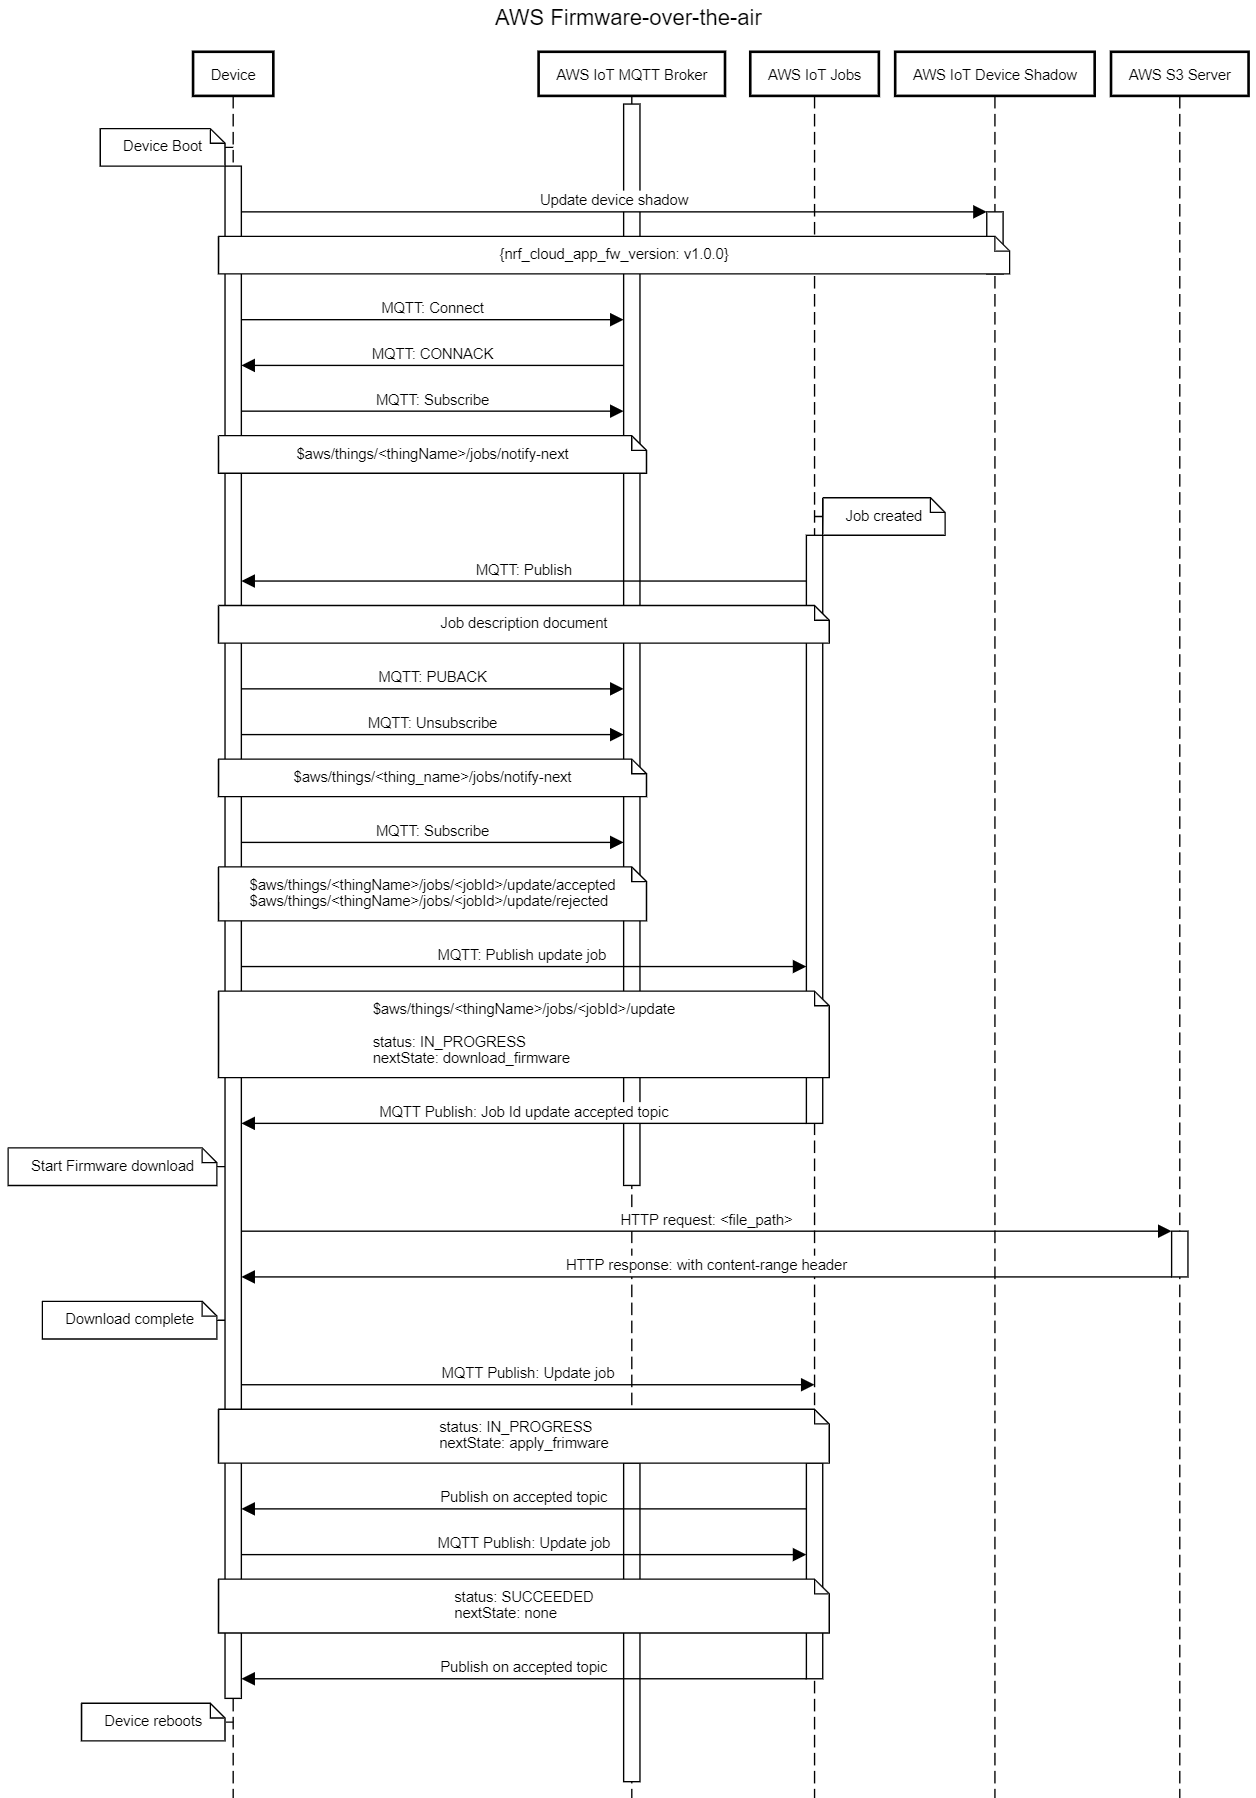
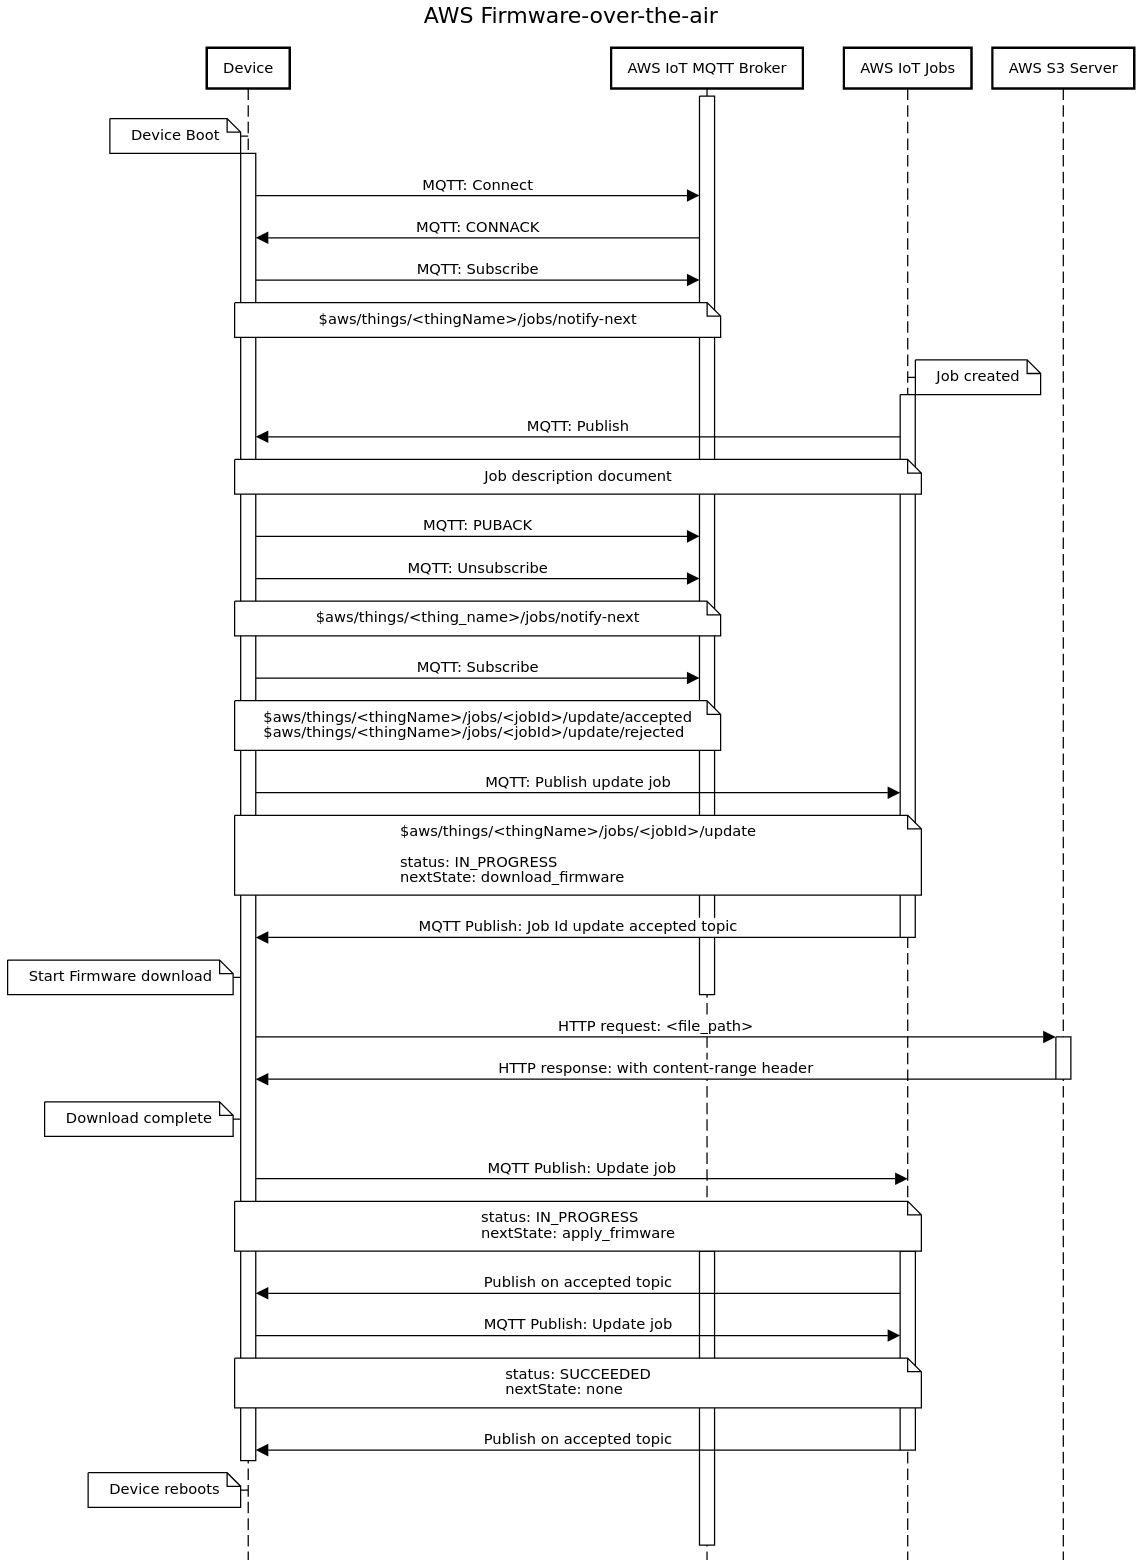
samples: nrf9160: aws_fota: Remove nRF Cloud support and provisioning
Since nRF Cloud no longer support `fota_v1` nRF Cloud support is removed
from this sample.

This also removes the update to the device shadow. It also removes
the provisioning functionality since it's not the recommended way of
provisioning certificates to the modem.

Ref. NCSDK-8824

diff --git a/samples/nrf9160/aws_fota/src/main.c b/samples/nrf9160/aws_fota/src/main.c
@@ -22,26 +22,15 @@
 BUILD_ASSERT(!IS_ENABLED(CONFIG_LTE_AUTO_INIT_AND_CONNECT),
 			"This sample does not support auto init and connect");
 
-#if defined(CONFIG_USE_NRF_CLOUD)
-#define NRF_CLOUD_SECURITY_TAG 16842753
-#endif
-
 #define MQTT_KEEPALIVE (CONFIG_MQTT_KEEPALIVE * MSEC_PER_SEC)
 
-#if defined(CONFIG_PROVISION_CERTIFICATES)
-#include "certificates.h"
-#if defined(CONFIG_MODEM_KEY_MGMT)
-#include <modem/modem_key_mgmt.h>
-#endif
-#endif
-
-#if !defined(CONFIG_CLOUD_CLIENT_ID)
+#if !defined(CONFIG_USE_CUSTOM_CLIENT_ID)
 /* Define the length of the IMEI AT COMMAND response buffer */
 #define CGSN_RESP_LEN 19
 #define IMEI_LEN 15
-#define CLIENT_ID_LEN (sizeof(CONFIG_NRF_CLOUD_CLIENT_ID_PREFIX) + IMEI_LEN)
+#define CLIENT_ID_LEN (sizeof(CONFIG_CLIENT_ID_PREFIX) + IMEI_LEN)
 #else
-#define CLIENT_ID_LEN sizeof(CONFIG_CLOUD_CLIENT_ID)
+#define CLIENT_ID_LEN sizeof(CONFIG_CLIENT_ID)
 #endif
 static uint8_t client_id_buf[CLIENT_ID_LEN];
 static uint8_t current_job_id[AWS_JOBS_JOB_ID_MAX_LEN];
@@ -71,57 +60,6 @@ void nrf_modem_recoverable_error_handler(uint32_t err)
 }
 
 #endif /* defined(CONFIG_NRF_MODEM_LIB) */
-
-#if !defined(CONFIG_USE_NRF_CLOUD)
-/* Topic for updating shadow topic with version number */
-#define AWS "$aws/things/"
-#define UPDATE_DELTA_TOPIC AWS "%s/shadow/update"
-#define SHADOW_STATE_UPDATE \
-"{\"state\":{\"reported\":{\"nrfcloud__dfu_v1__app_v\":\"%s\"}}}"
-
-static int update_device_shadow_version(struct mqtt_client *const client)
-{
-	struct mqtt_publish_param param;
-	char update_delta_topic[strlen(AWS) + strlen("/shadow/update") +
-				sizeof(client_id_buf)];
-	uint8_t shadow_update_payload[CONFIG_DEVICE_SHADOW_PAYLOAD_SIZE];
-
-	int ret = snprintf(update_delta_topic,
-			   sizeof(update_delta_topic),
-			   UPDATE_DELTA_TOPIC,
-			   client->client_id.utf8);
-	uint32_t update_delta_topic_len = ret;
-
-	if (ret >= sizeof(update_delta_topic)) {
-		return -ENOMEM;
-	} else if (ret < 0) {
-		return ret;
-	}
-
-	ret = snprintf(shadow_update_payload,
-		       sizeof(shadow_update_payload),
-		       SHADOW_STATE_UPDATE,
-		       CONFIG_APP_VERSION);
-	uint32_t shadow_update_payload_len = ret;
-
-	if (ret >= sizeof(shadow_update_payload)) {
-		return -ENOMEM;
-	} else if (ret < 0) {
-		return ret;
-	}
-
-	param.message.topic.qos = MQTT_QOS_1_AT_LEAST_ONCE;
-	param.message.topic.topic.utf8 = update_delta_topic;
-	param.message.topic.topic.size = update_delta_topic_len;
-	param.message.payload.data = shadow_update_payload;
-	param.message.payload.len = shadow_update_payload_len;
-	param.message_id = sys_rand32_get();
-	param.dup_flag = 0;
-	param.retain_flag = 0;
-
-	return mqtt_publish(client, &param);
-}
-#endif /* !defined(CONFIG_USE_NRF_CLOUD) */
 
 /**@brief Function to print strings without null-termination. */
 static void data_print(uint8_t *prefix, uint8_t *data, size_t len)
@@ -180,12 +118,6 @@ void mqtt_evt_handler(struct mqtt_client * const c,
 		}
 
 		printk("[%s:%d] MQTT client connected!\n", __func__, __LINE__);
-#if !defined(CONFIG_USE_NRF_CLOUD)
-		err = update_device_shadow_version(c);
-		if (err) {
-			printk("Unable to update device shadow err: %d\n", err);
-		}
-#endif
 		break;
 
 	case MQTT_EVT_DISCONNECT:
@@ -324,56 +256,10 @@ static void broker_init(const char *hostname)
 	/* Free the address. */
 	freeaddrinfo(result);
 }
-#if defined(CONFIG_PROVISION_CERTIFICATES)
-#warning Not for prodcution use. This should only be used once to provisioning the certificates please deselect the provision certificates configuration and compile again.
-#define MAX_OF_2 MAX(sizeof(CLOUD_CA_CERTIFICATE),\
-		     sizeof(CLOUD_CLIENT_PRIVATE_KEY))
-#define MAX_LEN MAX(MAX_OF_2, sizeof(CLOUD_CLIENT_PUBLIC_CERTIFICATE))
-static uint8_t certificates[][MAX_LEN] = {{CLOUD_CA_CERTIFICATE},
-				       {CLOUD_CLIENT_PRIVATE_KEY},
-				       {CLOUD_CLIENT_PUBLIC_CERTIFICATE} };
-static const size_t cert_len[] = {
-	sizeof(CLOUD_CA_CERTIFICATE) - 1, sizeof(CLOUD_CLIENT_PRIVATE_KEY) - 1,
-	sizeof(CLOUD_CLIENT_PUBLIC_CERTIFICATE) - 1
-};
-static int provision_certificates(void)
-{
-	int err;
-
-	printk("************************* WARNING *************************\n");
-	printk("%s called do not use this in production!\n", __func__);
-	printk("This will store the certificates in readable flash and leave\n");
-	printk("them exposed on modem_traces. Only use this once for\n");
-	printk("provisioning certificates for development to reduce flash tear."
-		"\n");
-	printk("************************* WARNING *************************\n");
-	nrf_sec_tag_t sec_tag = CONFIG_CLOUD_CERT_SEC_TAG;
-	enum modem_key_mgmt_cred_type cred[] = {
-		MODEM_KEY_MGMT_CRED_TYPE_CA_CHAIN,
-		MODEM_KEY_MGMT_CRED_TYPE_PRIVATE_CERT,
-		MODEM_KEY_MGMT_CRED_TYPE_PUBLIC_CERT,
-	};
-
-	/* Delete certificates */
-	for (enum modem_key_mgmt_cred_type type = 0; type < 3; type++) {
-		err = modem_key_mgmt_delete(sec_tag, type);
-		printk("modem_key_mgmt_delete(%u, %d) => result=%d\n",
-				sec_tag, type, err);
-	}
-
-	/* Write certificates */
-	for (enum modem_key_mgmt_cred_type type = 0; type < 3; type++) {
-		err = modem_key_mgmt_write(sec_tag, cred[type],
-				certificates[type], cert_len[type]);
-		printk("modem_key_mgmt_write => result=%d\n", err);
-	}
-	return 0;
-}
-#endif
 
 static int client_id_get(char *id_buf, size_t len)
 {
-#if !defined(CONFIG_CLOUD_CLIENT_ID)
+#if !defined(CONFIG_CLIENT_ID)
 	enum at_cmd_state at_state;
 	char imei_buf[CGSN_RESP_LEN];
 	int err = at_cmd_write("AT+CGSN", imei_buf, sizeof(imei_buf),
@@ -384,11 +270,11 @@ static int client_id_get(char *id_buf, size_t len)
 			err, at_state);
 		return err;
 	}
-	snprintf(id_buf, len, "%s%.*s", CONFIG_NRF_CLOUD_CLIENT_ID_PREFIX,
+	snprintf(id_buf, len, "%s%.*s", CONFIG_CLIENT_ID_PREFIX,
 		 IMEI_LEN, imei_buf);
 #else
-	memcpy(id_buf, CONFIG_CLOUD_CLIENT_ID, len);
-#endif /* !defined(NRF_CLOUD_CLIENT_ID) */
+	memcpy(id_buf, CONFIG_CLIENT_ID, len);
+#endif /* !defined(CONFIG_CLIENT_ID) */
 	return 0;
 }
 
@@ -423,11 +309,7 @@ static int client_init(struct mqtt_client *client, char *hostname)
 	client->transport.type = MQTT_TRANSPORT_SECURE;
 
 	static sec_tag_t sec_tag_list[] = {
-#ifdef CONFIG_USE_NRF_CLOUD
-		NRF_CLOUD_SECURITY_TAG
-#else
-		CONFIG_CLOUD_CERT_SEC_TAG
-#endif
+		CONFIG_CERT_SEC_TAG
 	};
 	struct mqtt_sec_config *tls_config = &(client->transport).tls.config;
 
@@ -557,9 +439,6 @@ void main(void)
 	printk("Initialized modem library\n");
 
 	at_configure();
-#if defined(CONFIG_PROVISION_CERTIFICATES)
-	provision_certificates();
-#endif /* CONFIG_PROVISION_CERTIFICATES */
 	printk("LTE Link Connecting ...\n");
 	err = lte_lc_init_and_connect();
 	__ASSERT(err == 0, "LTE link could not be established.");

diff --git a/samples/nrf9160/aws_fota/README.rst b/samples/nrf9160/aws_fota/README.rst
@@ -58,7 +58,7 @@ To create a thing for your kit:
 #. Go to :guilabel:`Manage` > :guilabel:`Things` and select :guilabel:`Register a thing` or :guilabel:`Create` (depending on whether you already have a thing registered).
 #. Select :guilabel:`Create a single thing`.
 #. Enter a name.
-   The default name used by the sample is ``nrf-IMEI``, where *IMEI* is the IMEI number of your kit.
+   The default name used by the sample is ``your_client_id``.
    If you choose a different name, make sure to :ref:`configure a custom client ID <configuring>` in the sample before you build it.
 #. Accept the defaults and continue to the next step.
 #. Select :guilabel:`Create certificate` to generate new certificates.
@@ -74,34 +74,26 @@ Updating the certificates
 =========================
 
 The certificates that you created or added for your thing in AWS IoT must be stored on your kit so that it can connect to AWS IoT.
-There are two different ways of doing this:
 
-Add the certificates to the sample code:
-   If you add the certificates to the sample code, the sample will store them on your kit automatically.
+Use `LTE Link Monitor`_ to write the certificates to the kit.
+This application, which is part of `nRF Connect for Desktop`_, provides a certificate manager that you can use to store the certificates on your kit.
 
    .. warning_start
 
    .. warning::
-      * The sample will overwrite the certificates stored with the configured :option:`security tag <CLOUD_CERT_SEC_TAG>`.
-      * You should provision the certificates only once and then update the sample configuration to use the existing certificates.
-        When provisioning the certificates, they are stored in the application binary and visible in the modem trace information, which is a security risk.
-
+      The LTE Link Monitor will overwrite the certificates stored on the device with the given security tag number.
+      Therefore, make sure that you are using the correct security tag.
    .. warning_end
 
-   1. Open the :file:`certificates.h` file in the :file:`src` folder of the sample.
-   #. Add the three certificates in the given format.
-      Make sure to not add whitespace except for the ``\n`` line breaks.
-   #. Before programming the sample, configure it to provision the certificates from the :file:`certificates.h` file (:option:`PROVISION_CERTIFICATES`) and to use a different security tag (:option:`CLOUD_CERT_SEC_TAG`).
 
 Use LTE Link Monitor to write the certificates to the kit:
-   The nRF Connect `LTE Link Monitor`_ provides a certificate manager that you can use to store the certificates on your kit:
 
-   1. Make sure that you have the :ref:`at_host_sample` sample programmed on your kit.
-   #. Put the modem in offline state.
-   #. Paste the three certificates into the respective fields.
-   #. Choose a security tag.
-   #. Click :guilabel:`Update certificates`.
-   #. Before programming the sample, make sure to configure the :option:`security tag <CLOUD_CERT_SEC_TAG>` to the one that you chose.
+1. Make sure that you have the :ref:`at_host_sample` sample programmed on your kit.
+#. Put the modem in offline state.
+#. Paste the three certificates into the respective fields.
+#. Choose a security tag.
+#. Click :guilabel:`Update certificates`.
+#. Before programming the sample, make sure to configure the :option:`security tag <CONFIG_CERT_SEC_TAG>` to the one that you chose.
 
 .. include:: /includes/aws_s3_bucket.txt
 
@@ -133,42 +125,28 @@ Sample configuration
 
 Before you build the sample, check and update the following configuration options:
 
-.. option:: APP_VERSION - Application version
+.. option:: CONFIG_APP_VERSION - Application version
 
    The version string is printed when the sample starts.
    Use this information to verify that the FOTA update worked.
 
-.. option:: CLOUD_CERT_SEC_TAG - Security tag for TLS credentials
+.. option:: CONFIG_CERT_SEC_TAG - Security tag for TLS credentials
 
    By default, the sample uses the certificates that are stored with the security tag for nRF Connect for Cloud.
    To use different certificates, configure a different security tag.
    If you used LTE Link Monitor to store the certificates, make sure to configure the security tag to the same that you used to store them.
 
-.. option:: MQTT_BROKER_HOSTNAME - AWT IoT MQTT broker hostname
+.. option:: CONFIG_MQTT_BROKER_HOSTNAME - AWT IoT MQTT broker hostname
 
    By default, the sample uses nRF Connect for Cloud's MQTT broker.
    Change this value to AWS IoT's MQTT broker.
    To find the address of the AWS IoT MQTT broker, open the AWS IoT console, go to :guilabel:`Test` and select :guilabel:`View endpoint` from the :guilabel:`Connected as XXX` drop-down menu.
 
-.. option:: USE_CLOUD_CLIENT_ID - Custom MQTT client ID
+.. option:: CONFIG_USE_CUSTOM_CLIENT_ID - Custom MQTT client ID
 
    The client ID links your kit to the thing in AWS IoT.
-   By default, the client ID is ``nrf-IMEI``, where *IMEI* is the IMEI number of your kit.
+   By default, the client ID is ``your_client_id``.
    If you chose a different name for your thing in AWS IoT, check this option and specify the AWS IoT thing name as client ID.
-
-.. option:: USE_NRF_CLOUD - Use nRF Connect for Cloud
-
-   If this option is checked, the sample uses the certificates that are stored in the modem with the nRF Connect for Cloud security tag.
-
-   Uncheck this option if you want to use the certificates added to the :file:`certificates.h` file.
-
-.. option:: PROVISION_CERTIFICATES - Provision certificates from the certificates.h file
-
-   If this option is checked, the sample stores the certificates from the :file:`certificates.h` file with the security tag that is defined as :option:`Security tag for TLS credentials <CLOUD_CERT_SEC_TAG>`.
-
-   .. include:: README.rst
-      :start-after: warning_start
-      :end-before: warning_end
 
 For all other values, use the default values unless you are using a custom MQTT server.
 
@@ -185,12 +163,6 @@ After programming the sample to your development kit, test it by performing the 
       ***** Booting Zephyr OS build v1.14.99-ncs3-snapshot2-1281-g40b430ba977c *****
 
       The MQTT AWS Jobs FOTA Sample, version: v1.0.0
-      nrf_inbuilt_key_delete(42, 0) => result=0
-      nrf_inbuilt_key_delete(42, 1) => result=0
-      nrf_inbuilt_key_delete(42, 2) => result=0
-      nrf_inbuilt_key_write => result=0
-      nrf_inbuilt_key_write => result=0
-      nrf_inbuilt_key_write => result=0
       LTE Link Connecting ...
       LTE Link Connected!
       IPv4 Address 127.0.0.1
@@ -198,8 +170,7 @@ After programming the sample to your development kit, test it by performing the 
       [mqtt_evt_handler:129] MQTT client connected!
       [00:00:14.106,140] <inf> aws_jobs: Subscribe: $aws/things/nrf-aws-fota/jobs/notify-next
 
-#. Log on to the `AWS IoT console`_, go to :guilabel:`Manage` > :guilabel:`Things`, and select your thing.
-#. Go to :guilabel:`Shadow` and confirm that the application version (``nrfcloud__dfu_v1__app_v``) is the one that you configured for the sample.
+#. Log on to the `AWS IoT console`_, go to :guilabel:`Manage` -> :guilabel:`Things`, and select your thing.
 #. In the :ref:`configuring`, change the application version.
    Then rebuild the application, but do not program it.
 #. Go to `AWS S3 console`_ and sign in.
@@ -258,8 +229,6 @@ Troubleshooting
 
 ERROR: mqtt_connect -45:
    Error -45 ("operation is not supported on socket") indicates an error with the configured certificates.
-   Check that you added the certificates correctly in :file:`certificates.h` and that you did not mix up the different certificates.
-   Certificates must be formatted correctly, without extra whitespace.
 
 Content range is not defined:
    If you host the firmware image on a different server than in an S3 bucket, this error indicates that the Content-Range field is missing in the HTTP GET header.

diff --git a/doc/nrf/releases/release-notes-latest.rst b/doc/nrf/releases/release-notes-latest.rst
@@ -110,6 +110,17 @@ nRF9160
 
     * Renamed gps_agps_request() to gps_agps_request_send().
 
+  * :ref:`aws_fota_sample` sample:
+
+    * Removed nRF Connect for Cloud support code, because ``fota_v1`` is no longer supported in nRF Connect for Cloud.
+    * Removed provisioning using :ref:`modem_key_mgmt` and :file:`certificates.h`, because this is not the recommended way of provisioning private certificates.
+    * Renamed the following Kconfig options:
+
+      * ``CONFIG_CLOUD_CERT_SEC_TAG`` renamed to :option:`CONFIG_CERT_SEC_TAG`.
+      * ``CONFIG_USE_CLOUD_CLIENT_ID`` renamed to :option:`CONFIG_USE_CUSTOM_CLIENT_ID`.
+      * ``CONFIG_CLOUD_CLIENT_ID`` renamed to ``CONFIG_CLIENT_ID``.
+      * ``CONFIG_NRF_CLOUD_CLIENT_ID_PREFIX`` renamed to ``CONFIG_CLIENT_ID_PREFIX``.
+
 nRF5
 ====
 
